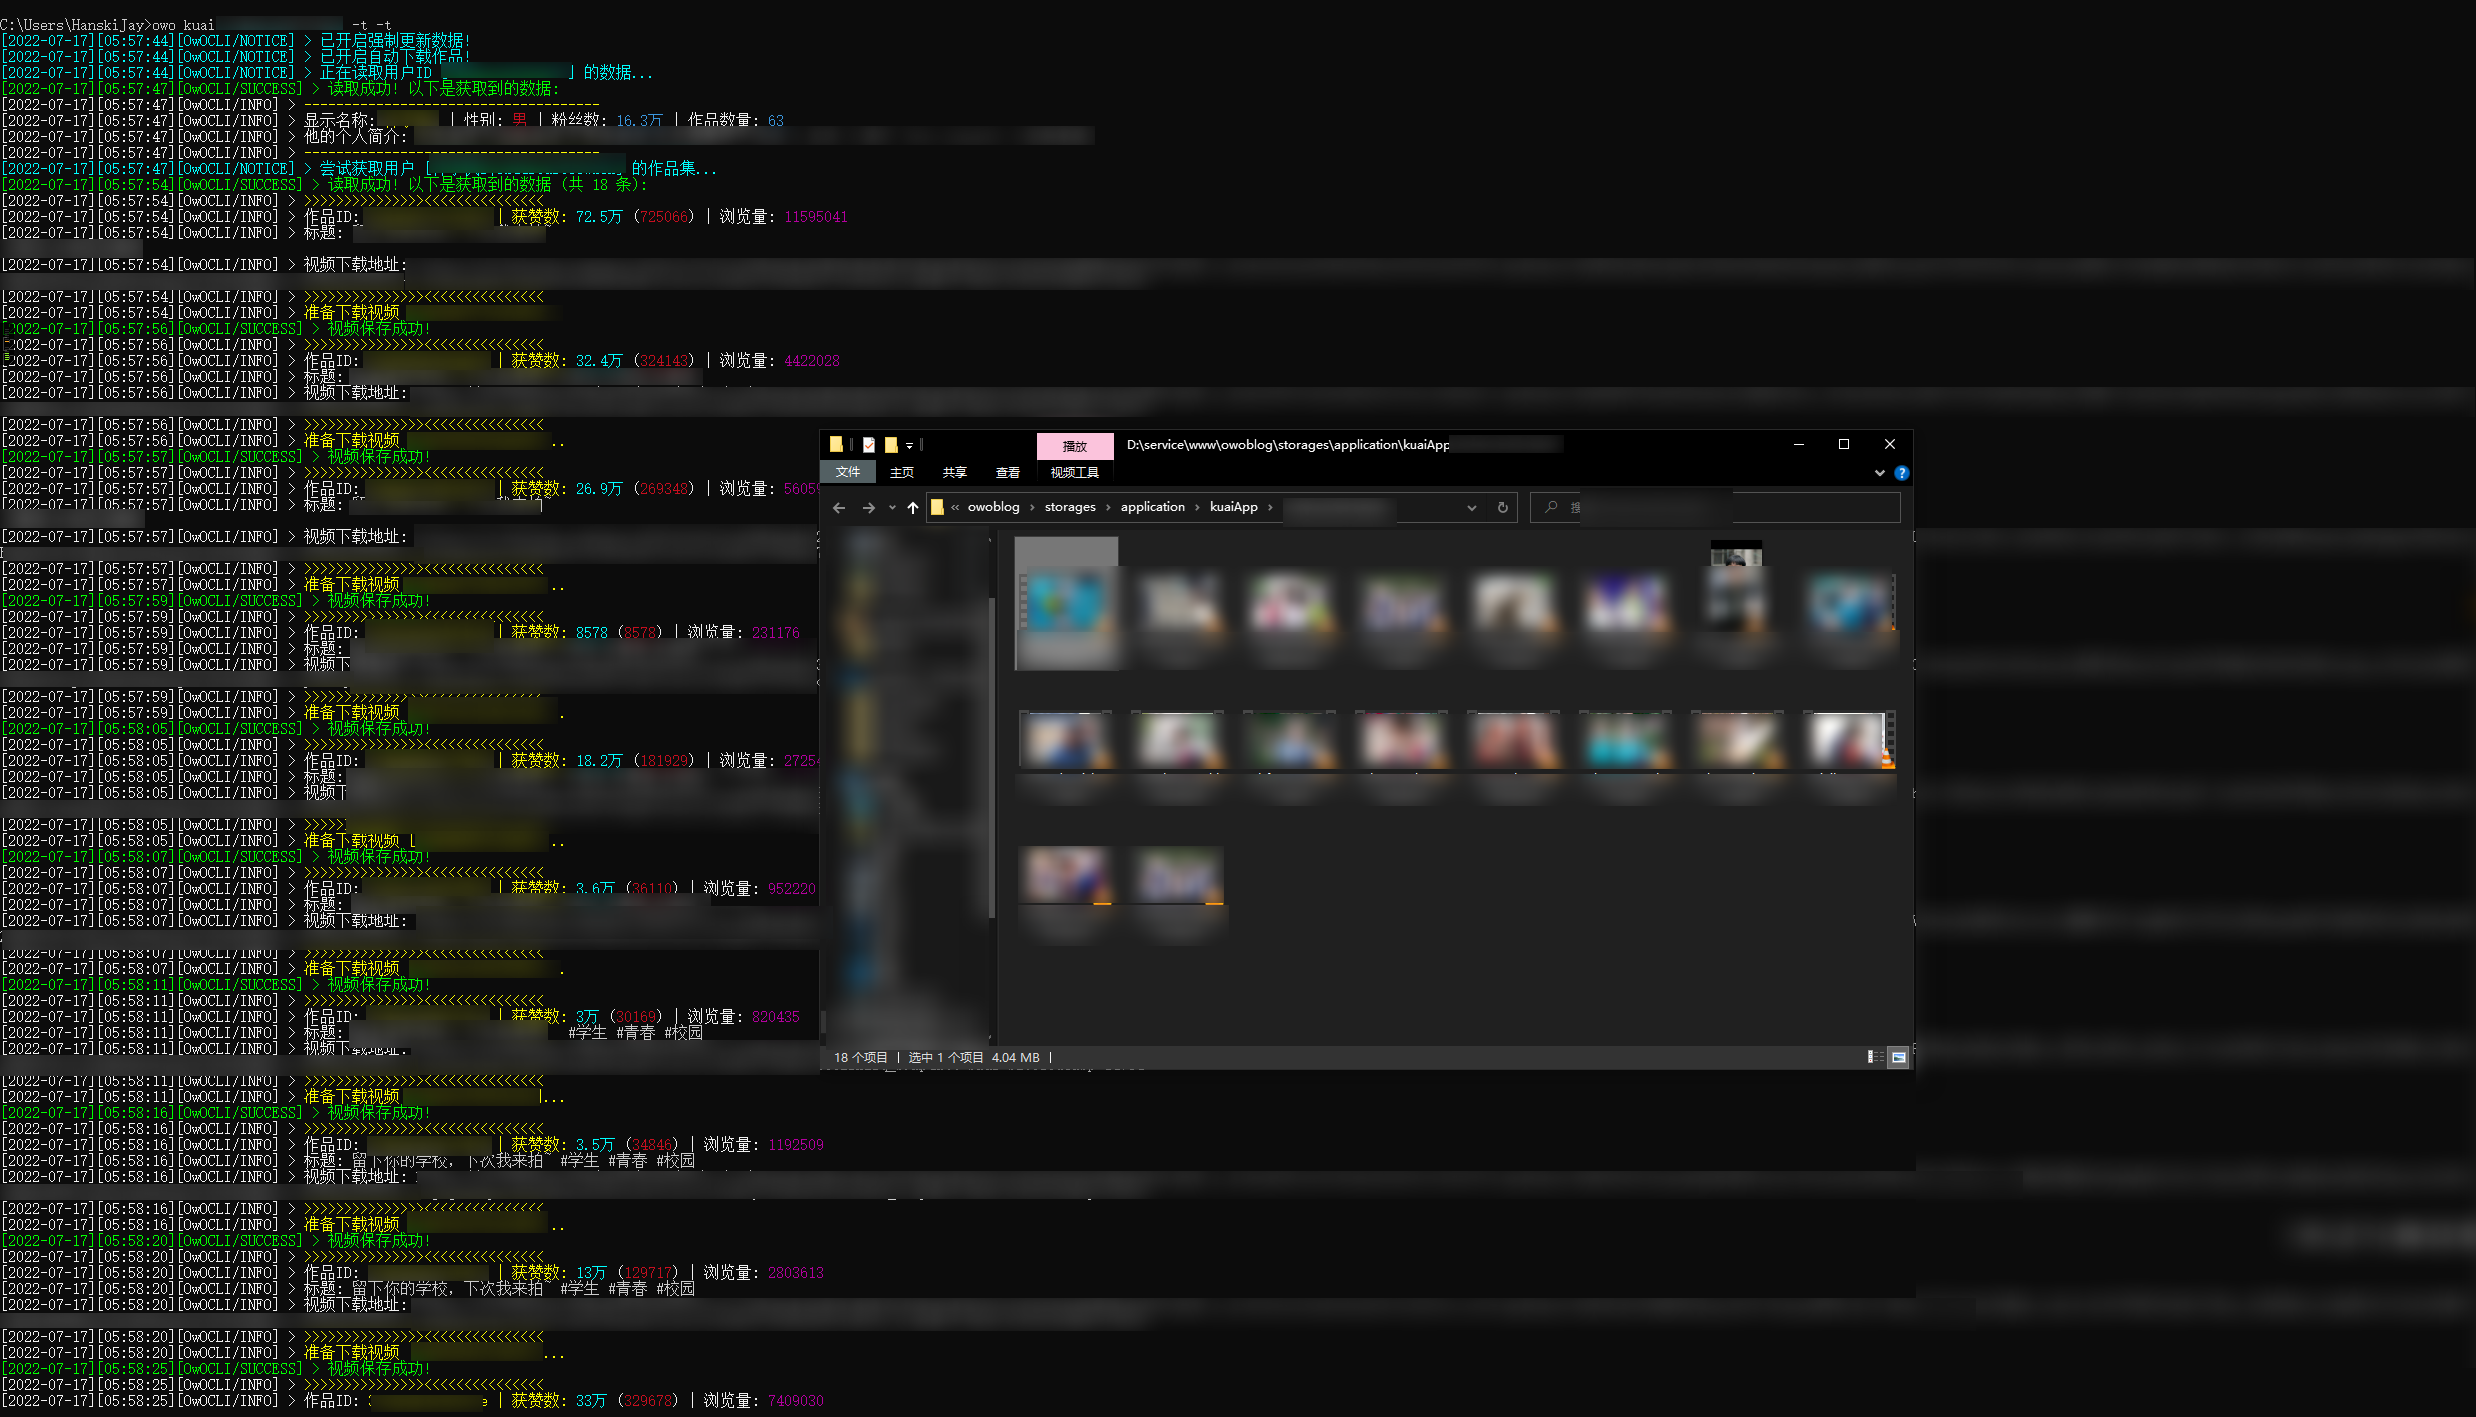
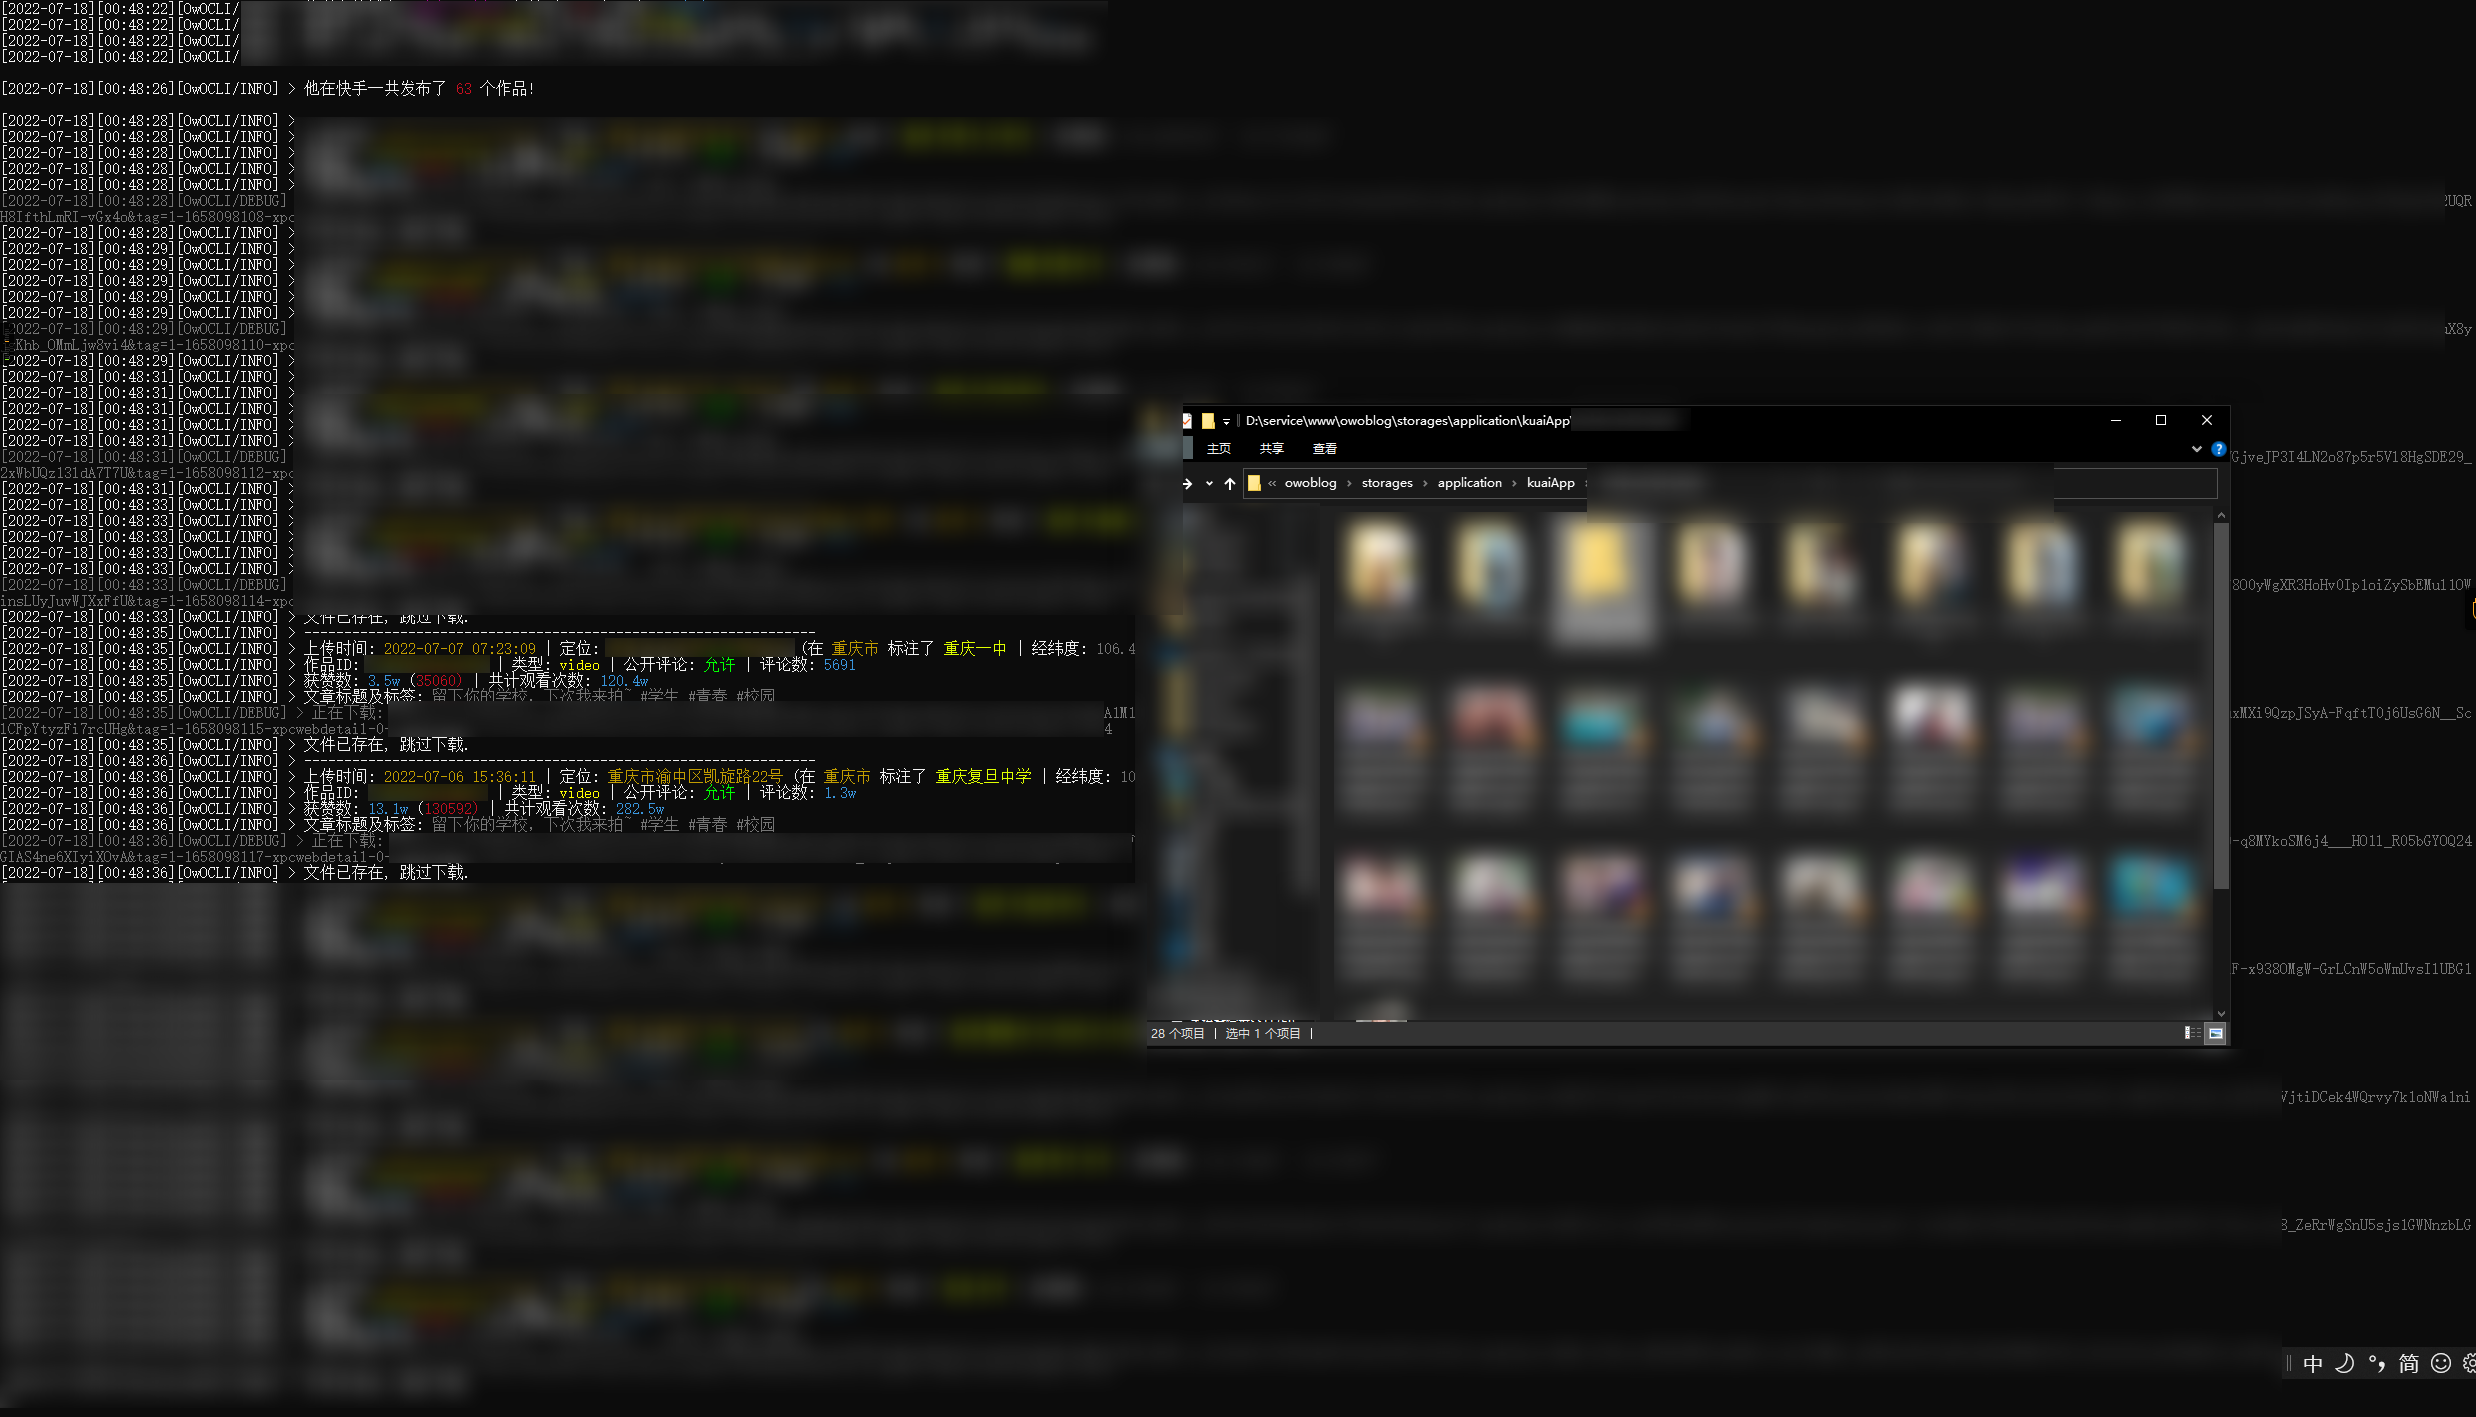
chore: 更新了使用说明

diff --git a/README.md b/README.md
@@ -2,16 +2,16 @@
 快手短视频批量下载脚本
 
 此项目采用 `OwOFrame` 进行的后端构建, 需要配套使用. 项目地址: [点我](https://github.com/Tommy131/OwOFrame)<br/>
-前端的Log输出采用 `OwOTools`, 已集成在JavaScript脚本中. 项目地址: [点我](https://github.com/Tommy131/OwOTools)
+本项目仅用于学习交流等途径, 严禁贩卖此源码! 个人/组织闭源申请请提交 `Issue` 以进行申请!<br/>
 
 ## 实现目标
 
 - [x] 支持解析单个作者的全部作品
 - [x] ~~支持解析分享的视频链接(尽管作品被作者设为不允许下载)~~ (正在尝试修复)
-- [ ] 后台显示最近的解析记录
+- [x] 后台日志显示最近的解析记录
 - [ ] 定时解析指定作者的作品
 - [x] 记录解析作品的详情（标题，发布时间，赞数等）
-- [ ] 敬请期待......给个Star鼓励我开发吧！！！拜托了！！！
+- [ ] 敬请期待......给个Star鼓励我开发吧!!! 拜托了!!! 这个项目真的花了我好多时间抓接口和优化!!!
 
 ## 怎么使用?
 1. 先克隆项目[OwOFrame](https://github.com/Tommy131/OwOFrame)到一个文件目录下.
@@ -22,38 +22,24 @@
 
 ### 在OwO-CLI中使用指令获取
 - 在控制台中输入 `document.cookie` 之后, 将其长串Cookie复制, 并且粘贴到 `KuaiApp.php` 中的 `getCookie()` 方法的 `return '(cookie: string)'` 内.
-- 在 `CMD` 或 `任意终端` 中输入指令 `php owo [作者ID]` 进行资源地址批量下载.
+- 在 `CMD` 或 `任意终端` 中输入指令 `php owo kuai [作者ID]` 进行资源地址批量下载.
 - 下载的视频目前皆为无水印视频.
-### 使用JavaScript脚本模拟访问获取 (已失效, 正在修复)
--  注入 `Javascript` 代码 ([点我](/static/js/KuaishouParser.js))
--  等待运行结束, 最终抓取到的地址将会通过 `POST` 请求提交到本App进行保存.
--  在 `CMD` 或 `任意终端` 中输入指令 `php owo kuai file [作者ID]` 进行资源地址批量下载.
--  若资源解析成功, 在 `Windows系统` 中将会自动打开保存的文件目录.
+
+可携带的参数: php owo kuai [authorId: string] (forceUpdate: true|false|-t|-f) (autoDownload: true|false|-t|-f) (platform: string)<br/>
+- authorId:     作者ID (不同平台的ID不同, 域名开通为 `www` 为数字英文字母混合; `live` 开头为用户自定义或默认的ID)
+- forceUpdate:  强制更新本地数据的选项 (`true/-t` 为确认更新, `false/-f` 为关闭状态)
+- autoDownload: 自动下载获取到的作品 (参数同上)
+- platform:     选择平台 (默认为 `www`, 也可以选择 `live`)
 
 ## 特性
 - [x] 支持保存客户端中无法下载的视频/照片
 - [x] 下载的照片目前皆无水印 (也许后期官方会修复这个BUG)
 - [x] 下载的视频目前为原始上传视频 (也就是说没有后面的 `快手, 记录美好生活`)
-- [x] Javascript脚本支持解析缓存
-- [x] Javascript脚本支持随时终止运行, 通过命令 `kuai.stop()` 实现.
 
-
-### 截图展示 (前端JS脚本)
-
-自动追踪当前目标<br/>
-![自动追踪当前目标](static/img/autotrack.png)
-
-自动缓存已解析过的目标<br/>
-![自动缓存已解析过的目标](static/img/cached.png)
-
-可停止的脚本执行<br/>
-![可停止的脚本执行](static/img/stoppable.png)
-
-<br/>
 
 ### 截图展示 (后端指令实现)
-截图展示1<br/>
-![截图展示1](static/img/cli-command.png)
+CLI数据抓取<br/>
+![CLI数据抓取](static/img/cli-command.png)
 
 <br/>
 
